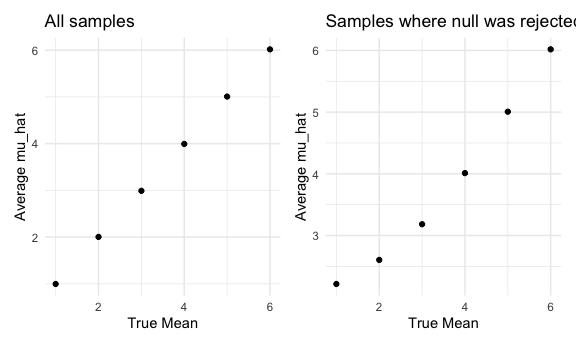
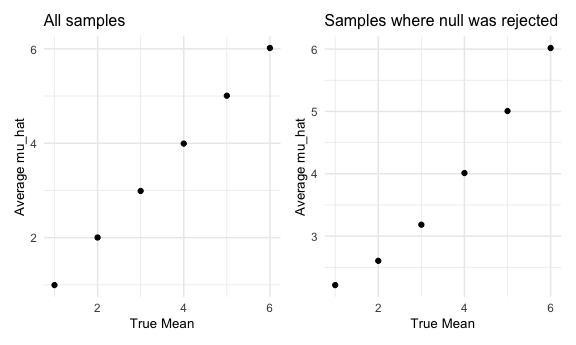
updated last graph to include labels and title

diff --git a/p8105_hw5_mb4650.md b/p8105_hw5_mb4650.md
@@ -458,7 +458,8 @@ avg_est =
   ) %>%
   ggplot(aes(x = mu, y = avg_estimate)) + 
   geom_point() +
-  labs(x = "True Mean", y = "Average mu_hat", title = "All samples")
+  labs(x = "True Mean", y = "Average mu_hat", title = "All samples") +
+  theme(title = element_text(size = 10))
 ```
 
     ## `summarise()` ungrouping output (override with `.groups` argument)
@@ -473,7 +474,8 @@ avg_est_rejected =
   ) %>%
   ggplot(aes(x = mu, y = avg_estimate_rej)) + 
   geom_point() +
-  labs(x = "True Mean", y = "Average mu_hat", title = "Samples where null was rejected")
+  labs(x = "True Mean", y = "Average mu_hat", title = "Samples where null was rejected") +
+  theme(title = element_text(size = 10))
 ```
 
     ## `summarise()` ungrouping output (override with `.groups` argument)
